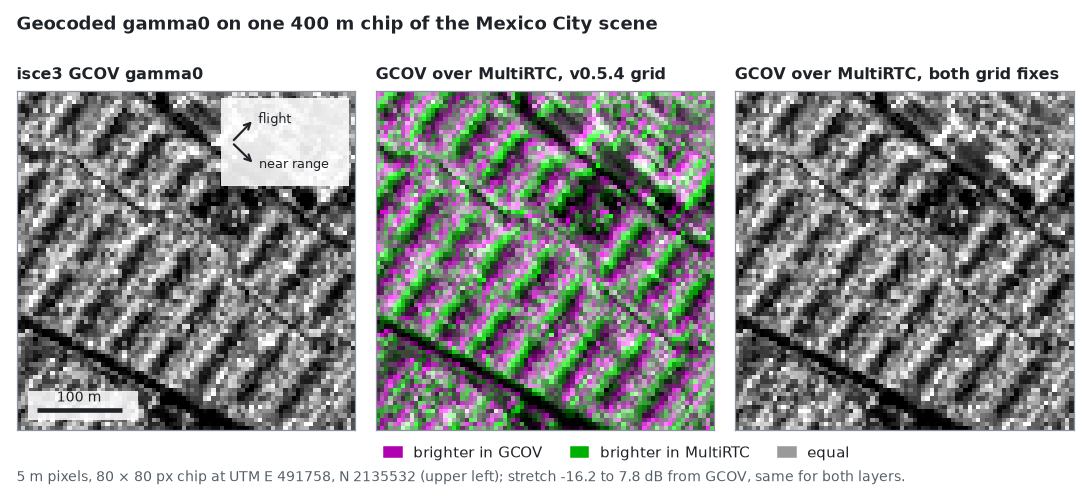
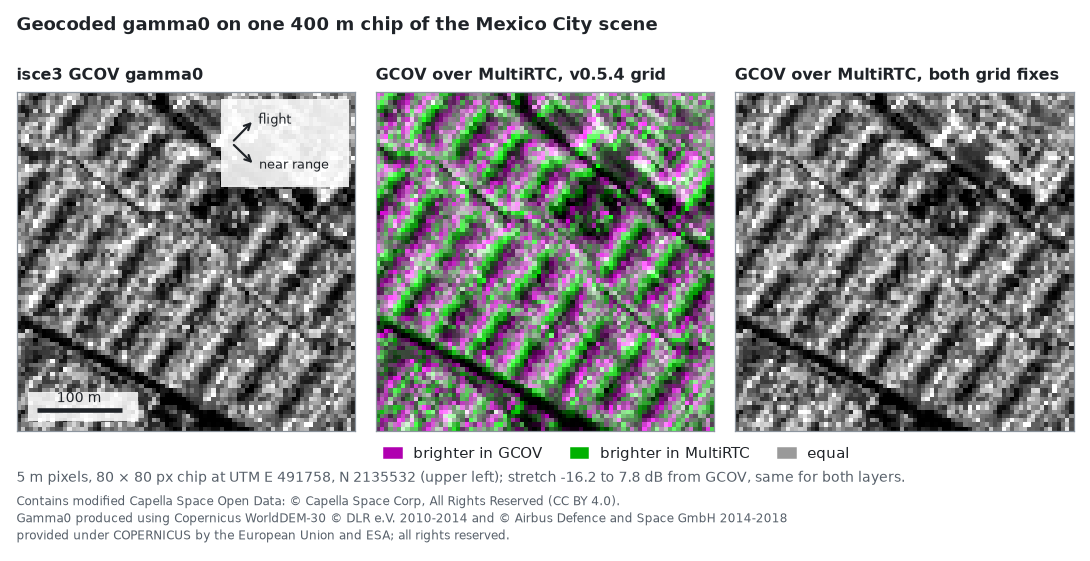
🐞 fix: Print the Capella and Copernicus DEM notices on Figure 4
Figure 4 shows gamma0 derived from a Capella open-data SICD and produced with the Copernicus GLO-30 DEM.
Capella's open data is CC BY 4.0 and asks for credit to "© Capella Space Corp, All Rights Reserved." with an indication of changes; the GLO-30 licence asks for a fixed notice on adapted data.
The image is embedded elsewhere by URL, so both notices are now printed on it rather than only in the surrounding text.

`make multirtc-rtc-figures` regenerates it byte-identically on a second run; Figure 3 and figures_3_4.json are unchanged.

🤖  Assisted-by: Claude Opus 5.5 <noreply@anthropic.com>

diff --git a/tools/plot_multirtc_rtc_figures.py b/tools/plot_multirtc_rtc_figures.py
@@ -39,6 +39,18 @@ sys.path.insert(0, str(Path(__file__).resolve().parent))
 from compare_rtc import _overlap, read_gcov, read_tif  # noqa: E402
 
 STEM = "CAPELLA_C14_SM_SICD_HH_20240626150051_20240626150055"
+# Notices the data licences ask for, printed on the image so they travel with it:
+# Capella (https://www.capellaspace.com/legal/data-licensing, CC BY 4.0: credit
+# and indicate changes) and Copernicus DEM GLO-30 (notice for adapted data, from
+# the COP-DEM page of dataspace.copernicus.eu). Both RTC paths used the GLO-30 DEM.
+CHIP_CREDIT = (
+    "Contains modified Capella Space Open Data: © Capella Space Corp, All Rights Reserved "
+    "(CC BY 4.0).\n"
+    "Gamma0 produced using Copernicus WorldDEM-30 © DLR e.V. 2010-2014 and © Airbus Defence "
+    "and Space GmbH 2014-2018\nprovided under COPERNICUS by the European Union and ESA; "
+    "all rights reserved."
+)
+
 STEPS = [("matched", "v0.5.4\ngrid"),
          ("matched-tfix", "+ start-\ntime fix"),
          ("matched-tfix-rfix", "+ starting-\nrange fix")]
@@ -281,6 +293,8 @@ def figure_chips(data: Path, heading_deg: float, out: Path, size: int = 80) -> d
              f"5 m pixels, {size} × {size} px chip at UTM E {x[0]:.0f}, N {y[0]:.0f} (upper left); "
              f"stretch {lo:.1f} to {hi:.1f} dB from GCOV, same for both layers.",
              ha="left", va="bottom", fontsize=9, color=MUTED)
+    fig.text(0.125, 0.065, CHIP_CREDIT, ha="left", va="top", fontsize=8, color=MUTED,
+             linespacing=1.4)
     fig.suptitle("Geocoded gamma0 on one 400 m chip of the Mexico City scene",
                  x=0.125, y=0.95, ha="left", fontsize=12, fontweight="bold")
     fig.savefig(out, dpi=110, bbox_inches="tight", pad_inches=0.15)
